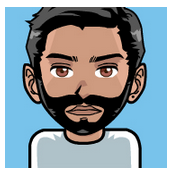
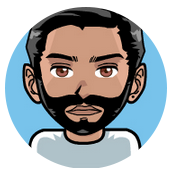
add new avataré

diff --git a/src/pages/index.js b/src/pages/index.js
@@ -1,7 +1,7 @@
 import React from 'react'
 import Layout from '../components/Layout'
 import SEO from '../components/Seo'
-import avatar from '../images/avatar-circle-B.png' // Tell Webpack this JS file uses this image
+import avatar from '../images/avatar.png' // Tell Webpack this JS file uses this image
 
 const IndexPage = () => (
   <Layout>
